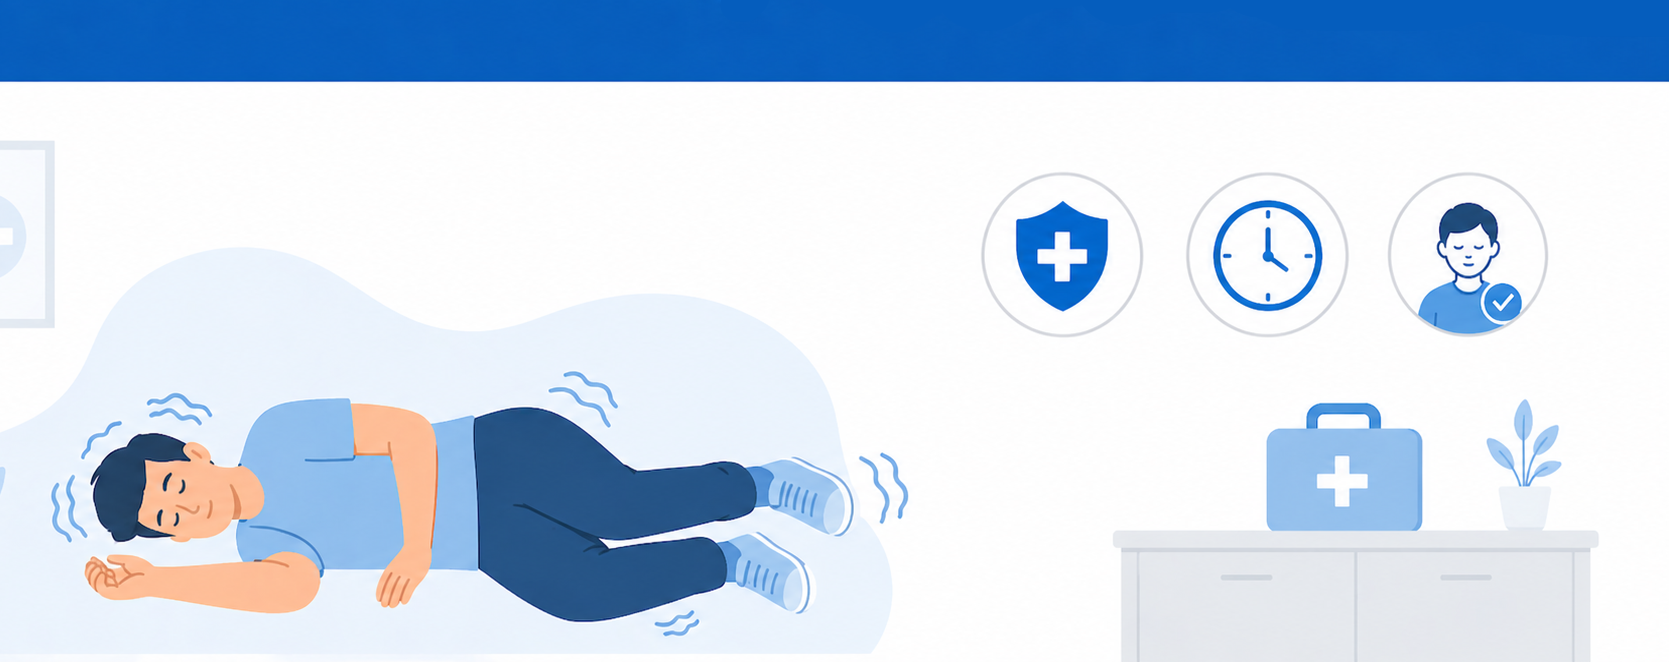
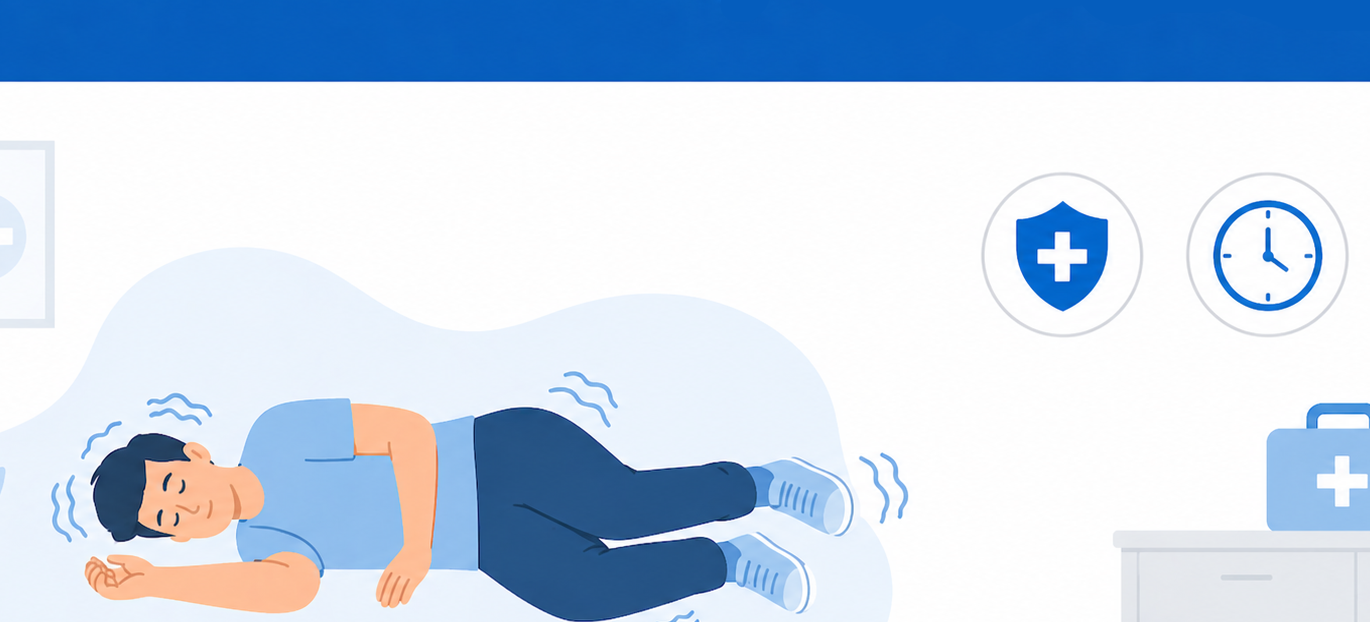
grid para emergencias graves

diff --git a/src/pages/EmergenciasGraves.jsx b/src/pages/EmergenciasGraves.jsx
@@ -1,47 +1,35 @@
 import { useState } from "react"
 import { useNavigate } from "react-router-dom"
 import Logo from "../assets/loguito.png"
-import imgDeshidratacion from "../assets/Portada_emergencias/Emergencias_leves/Deshidratacion.jpg"
-import imgDolorCabeza from "../assets/Portada_emergencias/Emergencias_leves/dolor_cabeza.jpg"
-import imgDolorOido from "../assets/Portada_emergencias/Emergencias_leves/dolor_oido.jpg"
-import imgIntoxicacion from "../assets/Portada_emergencias/Emergencias_leves/intoxicacion.jpg"
+import imgConvulsion from "../assets/Portada_emergencias/Emergencias_leves/Emergencias_graves/convulsionleve-GRAVE.png"
+import imgFractura from "../assets/Portada_emergencias/Emergencias_leves/Emergencias_graves/fracturadebrazo-GRAVES.png"
+import imgIntoxicacion from "../assets/Portada_emergencias/Emergencias_leves/Emergencias_graves/intoxicacionalimentaria-GRAVE.png"
+import imgMordida from "../assets/Portada_emergencias/Emergencias_leves/Emergencias_graves/mordidadeanimal-GRAVE.png"
 
 const emergencias = [
   {
-    id: "Paro cardiaco",
-    nombre: "Paro cardiaco",
-    tipo: "Cardiovascular",
-    imagen: imgDolorOido,
-  },
-  {
-    id: "Accidente cerebrovascular",
-    nombre: "Accidente cerebrovascular",
+    id: "Convulsion",
+    nombre: "Convulsión",
     tipo: "Neurológica",
-    imagen: imgDolorCabeza,
+    imagen: imgConvulsion,
   },
   {
-    id: "Quemadura grave",
-    nombre: "Quemadura grave",
-    tipo: "Lesión física",
-    imagen: imgDeshidratacion,
-  },
-  {
-    id: "Fractura expuesta",
-    nombre: "Fractura expuesta",
+    id: "Fractura de brazo",
+    nombre: "Fractura de brazo",
     tipo: "Traumatológica",
+    imagen: imgFractura,
+  },
+  {
+    id: "Intoxicacion alimentaria",
+    nombre: "Intoxicación alimentaria",
+    tipo: "Toxicológica",
     imagen: imgIntoxicacion,
   },
   {
-    id: "Anafilaxia",
-    nombre: "Anafilaxia",
-    tipo: "Alérgica",
-    imagen: imgDolorCabeza,
-  },
-  {
-    id: "Hemorragia severa",
-    nombre: "Hemorragia severa",
-    tipo: "Vascular",
-    imagen: imgDeshidratacion,
+    id: "Mordida de animal",
+    nombre: "Mordida de animal",
+    tipo: "Lesión física",
+    imagen: imgMordida,
   },
 ]
 
@@ -103,10 +91,10 @@ export default function EmergenciasGrave() {
         </div>
       </div>
 
-      {/* LISTA DE TARJETAS */}
-      <div className="flex flex-col gap-3 px-10 pt-4">
+      {/* GRID DE TARJETAS */}
+      <div className="grid grid-cols-2 gap-3 px-4 pt-4">
         {filtradas.length === 0 ? (
-          <p className="mt-10 text-center text-white/50">
+          <p className="col-span-2 mt-10 text-center text-white/50">
             No se encontraron resultados
           </p>
         ) : (
@@ -114,20 +102,22 @@ export default function EmergenciasGrave() {
             <div
               key={emergencia.id}
               onClick={() => navigate(`/emergencias/grave/${emergencia.id}`)}
-              className="flex items-center overflow-hidden rounded-2xl bg-white shadow-md transition-transform active:scale-95 cursor-pointer"
+              className="overflow-hidden rounded-2xl bg-white shadow-md transition-transform active:scale-95 cursor-pointer"
             >
+              {/* Imagen */}
               <img
                 src={emergencia.imagen}
                 alt={emergencia.nombre}
-                className="h-24 w-24 shrink-0 object-cover"
+                className="w-full h-28 object-cover"
               />
-              <div className="flex-1 px-4">
-                <p className="text-sm font-bold leading-snug text-gray-800">
+
+              {/* Texto */}
+              <div className="p-3">
+                <p className="text-xs font-bold leading-snug text-gray-800">
                   {emergencia.nombre}
                 </p>
-                <p className="mt-1 text-xs text-gray-400">{emergencia.tipo}</p>
+                <p className="mt-1 text-[10px] text-gray-400">{emergencia.tipo}</p>
               </div>
-              <span className="pr-4 text-2xl font-bold text-gray-300">›</span>
             </div>
           ))
         )}